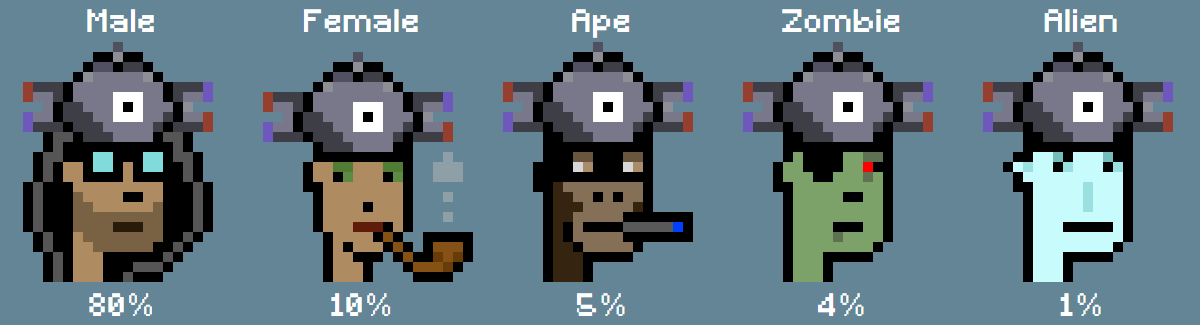
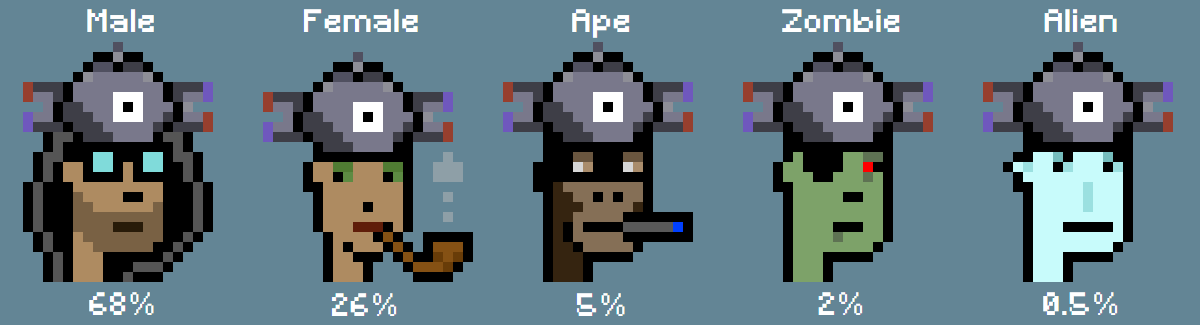
almost there baby

diff --git a/client/src/layout/components/Specs/Specs.js b/client/src/layout/components/Specs/Specs.js
@@ -16,11 +16,11 @@ class Specs extends Component {
                     There will be a limited supply of 1511 (in honor of the original 151 pokemon), and purchasing an PokePunkz costs <u>0.03</u> ETH detailed below.                
                 </div> 
                 <div className="coloursContainer"> 
-                    <div className="colourBox cb1">80%</div>
-                    <div className="colourBox cb2">10%</div>
-                    <div className="colourBox cb3">5%</div>
-                    <div className="colourBox cb4">4%</div>
-                    <div className="colourBox cb5">3%</div>
+                    <div className="colourBox cb1">48%</div>
+                    <div className="colourBox cb2">20%</div>
+                    <div className="colourBox cb3">14%</div>
+                    <div className="colourBox cb4">8%</div>
+                    <div className="colourBox cb5">5%</div>
                     <div className="colourBox cb6">3%</div>
                     <div className="colourBox cb7">2%</div>
                     <div className="colourBox cb8">1%</div>

diff --git a/client/src/layout/components/AnimatedHero/AnimatedHero.scss b/client/src/layout/components/AnimatedHero/AnimatedHero.scss
@@ -28,7 +28,7 @@
 #heroLayer0{
     background-image: url("../../files/images/hero/layer0.gif");
     background-repeat: no-repeat;
-    background-size: 40px;
+    background-size: 80px;
     background-position: 70px 270px;
 }
 #heroLayer1{
